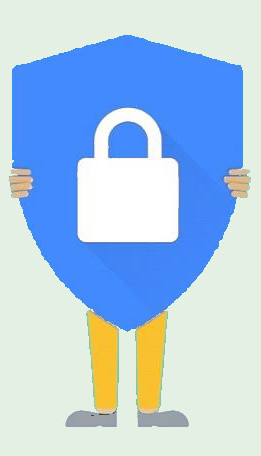
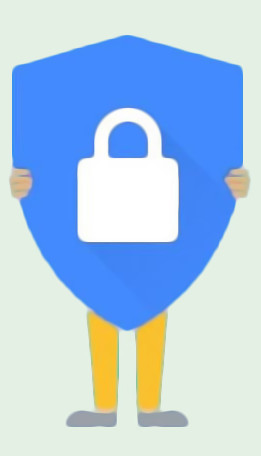
Made some layout changes and sharpened some images

diff --git a/css/security.css b/css/security.css
@@ -9,7 +9,7 @@ section#body{
 	background-color: #e3efe3;
 }
 #securityHeader img{
-	width: 140px;
+	width: 80px;
 	float: right;
 }
 #securityHeader label{
@@ -59,6 +59,7 @@ section#body{
 		text-align: center;
 	}
 	#securityHeader img{
+		width: 80px;
 		float: none;
 	}
 	#securityHeader label{
@@ -80,5 +81,13 @@ section#body{
 		font-size: 1.1em;
 		line-height: 1.8em;
 		margin-top: 20px;
+	}
+}
+@media (max-width: 558px){
+	#securityBody{
+		width: 100%;
+		background-color: white;
+		padding: 30px 30px 60px 30px;
+		margin: 0 auto;
 	}
 }

diff --git a/css/terms.css b/css/terms.css
@@ -69,7 +69,7 @@ section#body{
 	}
 	#termsHeader{
 		height: 180px;
-		padding: 60px 60px;
+		padding: 60px 30px;
 	}
 	#termsHeader label{
 		font-size: 1.8em;
@@ -79,7 +79,7 @@ section#body{
 	#termsBody{
 		width: 100%;
 		background-color: white;
-		padding: 30px 60px;
+		padding: 20px 30px 60px 30px;
 		margin: 0 auto;
 	}
 	#termsBody h1{

diff --git a/css/headerAndFooter.css b/css/headerAndFooter.css
@@ -180,6 +180,9 @@ footer#base{
 	#check:checked ~ ul{
 		left: 0;
 	}
+	footer section{
+		padding: 20px 23px 50px 23px;
+	}
 	footer section section{
 		float: left;
 		/*margin-right: 100px;*/

diff --git a/css/features.css b/css/features.css
@@ -144,7 +144,7 @@ section#body{
 		text-align: center;
 	}
 	#smallScreen div{
-		padding: 70px 60px 50px 60px;
+		padding: 70px 40px 50px 40px;
 		color: black;
 	}
 	#feature1{

diff --git a/css/about.css b/css/about.css
@@ -58,7 +58,7 @@ section p{
 		padding-top: 80px;
 		width: 100%;
 		background-color: white;
-		padding: 30px 90px;
+		padding: 30px 30px;
 		margin: 0 auto;
 	}
 	section h1{
